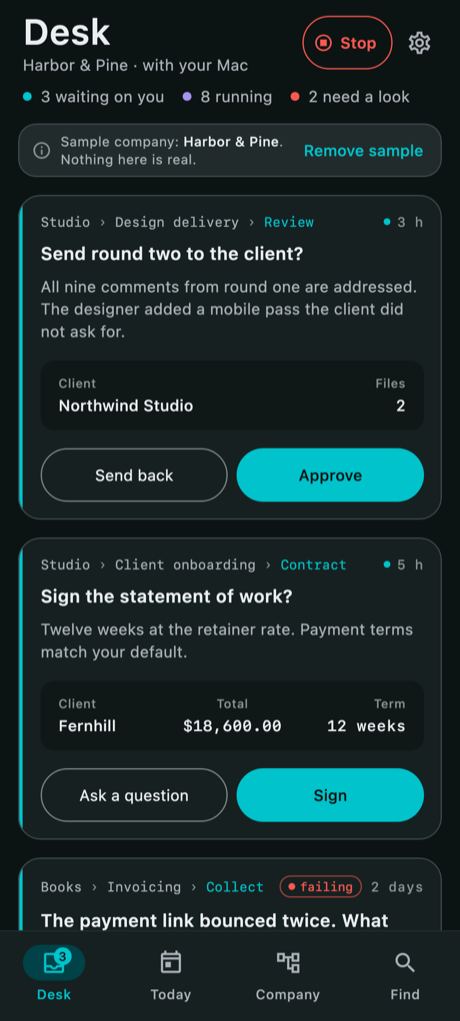
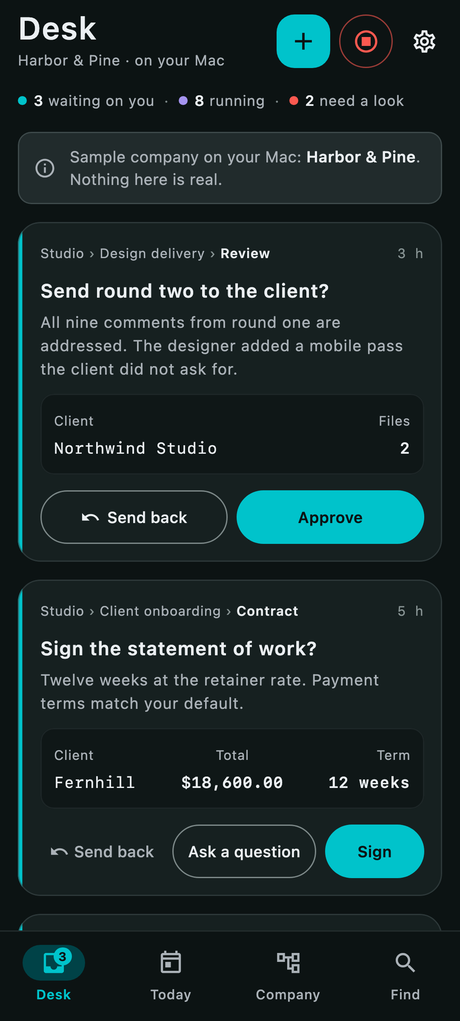
SoloINC for Android: companion-only pages (no on-phone runs, nothing sold)

diff --git a/index.html b/index.html
@@ -5,19 +5,19 @@
 <meta name="viewport" content="width=device-width, initial-scale=1">
 <meta name="color-scheme" content="dark light">
 <title>SoloINC for Android: answer your AI agents from the lock screen</title>
-<meta name="description" content="Your company's SoloINC Desk on your phone. Answer what your AI agents ask from the lock screen, with your Mac or with no Mac at all. No account, no analytics, no ads.">
+<meta name="description" content="Your company's SoloINC Desk on your phone, paired to SoloINC on your Mac. Answer or send back what your AI agents ask from the lock screen. No account, no analytics, no ads.">
 <meta name="robots" content="noindex">
 <link rel="canonical" href="https://soloinc-projects.github.io/soloinc-android/">
 <link rel="icon" href="img/favicon.svg" type="image/svg+xml">
 <link rel="apple-touch-icon" href="img/apple-touch-icon.png">
 <meta property="og:title" content="SoloINC for Android: answer your AI agents from the lock screen">
-<meta property="og:description" content="Your company's SoloINC Desk on your phone. Answer what your AI agents ask from the lock screen, with your Mac or with no Mac at all. No account, no analytics, no ads.">
+<meta property="og:description" content="Your company's SoloINC Desk on your phone, paired to SoloINC on your Mac. Answer or send back what your AI agents ask from the lock screen. No account, no analytics, no ads.">
 <meta property="og:image" content="https://soloinc-projects.github.io/soloinc-android/img/og-image.png">
 <link rel="stylesheet" href="site.css">
 <script type="application/ld+json">
 {"@context":"https://schema.org","@type":"SoftwareApplication","name":"SoloINC","applicationCategory":"BusinessApplication",
-"operatingSystem":"Android","description":"Your company's Desk on your phone: answer what your AI agents ask from the lock screen, with your Mac or with no Mac at all.",
-"offers":[{"@type":"Offer","price":"0","priceCurrency":"USD","description":"Free download: 30 runs a month, 60 in the first month"},{"@type":"Offer","price":"7.99","priceCurrency":"USD","description":"SoloINC Pro, monthly subscription through Google Play"},{"@type":"Offer","price":"59.99","priceCurrency":"USD","description":"SoloINC Pro, yearly subscription through Google Play"}],
+"operatingSystem":"Android","description":"Your company's SoloINC Desk on your phone, paired to SoloINC on your Mac: answer or send back what your AI agents ask from the lock screen.",
+"offers":{"@type":"Offer","price":"0","priceCurrency":"USD","description":"Free; sells nothing. Needs SoloINC on a Mac."},
 "publisher":{"@type":"Organization","name":"8086 LLC","email":"support@8086.llc"}}
 </script>
 </head>
@@ -31,43 +31,39 @@
 <main id="main">
 <section class="hero">
   <h1>Answer your agents from the lock screen.</h1>
-  <p class="lede">SoloINC for Android runs your company's Desk from your phone: with your Mac, or with no Mac at all. AI agents run the work. You decide at the Desk.</p>
+  <p class="lede">SoloINC for Android is the Desk in your pocket, paired to SoloINC on your Mac. AI agents run the work. You decide at the Desk.</p>
   <ul class="cta" aria-label="Where to get it">
     <li><b>Get it on Google Play</b> <span>· opens soon</span></li>
   </ul>
-  <p class="note">For Android phones. No SoloINC account, no analytics, no ads: the phone talks only to your Mac, or to your own model provider.</p>
+  <p class="note">For Android phones. Needs <a href="https://soloinc-projects.github.io/soloinc/">SoloINC on your Mac</a>, a free download: the phone is its remote, and nothing runs on the phone.</p>
 </section>
 
 <div class="proof">
-  <section><h2>Approve from the lock screen</h2><p>An ask arrives as a notification with Approve and Decline. Your fingerprint, face or PIN confirms it, and the answer writes the same record line as one given on your Mac.</p></section>
-  <section><h2>Grouped, never rubber-stamped</h2><p>Two or more low-risk asks within 15 minutes come as one notification. Each is still its own answer; there is no "approve all". Anything else arrives alone, at once.</p></section>
-  <section><h2>With no Mac at all</h2><p>Choose "Run it on this phone" and the same engine runs inside the app on your own model key, kept in the phone's keystore. A step only a computer can do says "Needs a computer".</p></section>
+  <section><h2>Answer from the lock screen</h2><p>An ask arrives as a notification with its own answers and Send back. Your fingerprint, face or PIN confirms it, and the answer is written to the record on your Mac, the same as one given there.</p></section>
+  <section><h2>Grouped, never rubber-stamped</h2><p>Low-risk asks that come within 15 minutes arrive as one notification. Each is still its own answer; there is no "approve all". Anything else arrives alone.</p></section>
+  <section><h2>Stop everything</h2><p>Stop the whole company, or one routine, from the top of the Desk. The phone shows your Mac's own answer when it has stopped, and you can start again.</p></section>
 </div>
 
 <h2>What it looks like</h2>
 <ul class="shots" aria-label="Screens, from the design">
-  <li><img src="img/welcome.png" width="460" height="1021" alt="SoloINC's first screen: Pair with my Mac, Run it on this phone, or look at the sample company first." loading="lazy"><p>The first screen</p></li>
-  <li><img src="img/desk.png" width="460" height="1021" alt="The Desk of the sample company Harbor &amp; Pine: three asks waiting, each with its numbers and two answers." loading="lazy"><p>The Desk: every ask from every routine</p></li>
-  <li><img src="img/memo.png" width="460" height="1021" alt="A memo, Send round two to the client?, with its client, two files, and Send back or Approve." loading="lazy"><p>A memo, with its numbers and files</p></li>
+  <li><img src="img/welcome.png" width="460" height="1021" alt="SoloINC's first screen: AI agents run the work, you decide at the Desk, and one button, Pair with my Mac." loading="lazy"><p>The first screen</p></li>
+  <li><img src="img/desk.png" width="460" height="1021" alt="The Desk of the sample company Harbor &amp; Pine on the Mac: asks waiting, each with its numbers, Send back and its own answer." loading="lazy"><p>The Desk: every ask from every routine</p></li>
+  <li><img src="img/memo.png" width="460" height="1021" alt="A memo, Send round two to the client?, with Context &amp; why, the client, two files, and Send back or Approve." loading="lazy"><p>A memo, with context and why</p></li>
+  <li><img src="img/talk.png" width="460" height="1021" alt="The Managing Agent screen: a question goes to the Managing Agent on your Mac and its answer comes back here." loading="lazy"><p>Ask the Managing Agent on your Mac</p></li>
 </ul>
-<p class="note">Pictures from the design, showing the sample company Harbor &amp; Pine. Nothing in it is real.</p>
-
-<h2>Free, and SoloINC Pro</h2>
-<div class="proof">
-  <section><h2>Free</h2><p>30 runs a month, 60 in your first month. A run is one agent doing one step of one job. The Desk, answering, the record, Stop and Today never need Pro.</p></section>
-  <section><h2>SoloINC Pro</h2><p>Unlimited runs: $7.99 a month or $59.99 a year in the U.S., paid through Google Play. It renews until you cancel; cancel any time in Google Play.</p></section>
-</div>
+<p class="note">Pictures from the design, showing the sample company Harbor &amp; Pine as a Mac sends it. Nothing in it is real.</p>
 
 <section class="not" aria-labelledby="not-h">
   <h2 id="not-h">Who it is for, and not for</h2>
   <ul>
-    <li>For people who already run their company on SoloINC.</li>
+    <li>For people who already run their company on SoloINC on a Mac.</li>
     <li>It does not watch a single coding session or route IT tickets.</li>
-    <li>It includes no model: running on the phone needs your own model key. Pairing needs SoloINC on your Mac.</li>
+    <li>It does nothing without your Mac: when the Mac is out of reach it shows the last copy, and every action is off until the Mac is back.</li>
     <li>While the app is closed it checks for new asks every 15 minutes, so an ask can arrive up to 15 minutes late.</li>
+    <li>Free, and it sells nothing: your SoloINC on the Mac holds the plan.</li>
   </ul>
 </section>
-<p class="note">Privacy in one line: no SoloINC account, nothing sent to our servers, no analytics, no ads. <a href="privacy/">Read the privacy policy</a>.</p>
+<p class="note">Privacy in one line: no SoloINC account, nothing sent to our servers, no analytics, no ads; the phone talks only to your Mac. <a href="privacy/">Read the privacy policy</a>.</p>
 </main>
 <footer>
   <p>SoloINC for Android · © 2026 8086 LLC · <a href="mailto:support@8086.llc">support@8086.llc</a> · <a href="/soloinc-android/privacy/">Privacy</a> · <a href="/soloinc-android/terms/">Terms</a> · <a href="https://soloinc-projects.github.io/soloinc/">SoloINC for Mac</a></p>

diff --git a/support/index.html b/support/index.html
@@ -5,13 +5,13 @@
 <meta name="viewport" content="width=device-width, initial-scale=1">
 <meta name="color-scheme" content="dark light">
 <title>Support · SoloINC for Android</title>
-<meta name="description" content="How to reach SoloINC support, and answers to the first questions about pairing, lock-screen answers and Pro.">
+<meta name="description" content="How to reach SoloINC support, and answers to the first questions about pairing, lock-screen answers and when your Mac is out of reach.">
 <meta name="robots" content="noindex">
 <link rel="canonical" href="https://soloinc-projects.github.io/soloinc-android/support/">
 <link rel="icon" href="../img/favicon.svg" type="image/svg+xml">
 <link rel="apple-touch-icon" href="../img/apple-touch-icon.png">
 <meta property="og:title" content="Support · SoloINC for Android">
-<meta property="og:description" content="How to reach SoloINC support, and answers to the first questions about pairing, lock-screen answers and Pro.">
+<meta property="og:description" content="How to reach SoloINC support, and answers to the first questions about pairing, lock-screen answers and when your Mac is out of reach.">
 <meta property="og:image" content="https://soloinc-projects.github.io/soloinc-android/img/og-image.png">
 <link rel="stylesheet" href="../site.css">
 </head>
@@ -25,25 +25,25 @@
 <main id="main">
 <div class="doc">
 <h1>Support</h1>
-<p>Write to <a href="mailto:support@8086.llc">support@8086.llc</a>. Say which phone and Android version you use, and whether the app runs with your Mac or on the phone.</p>
+<p>Write to <a href="mailto:support@8086.llc">support@8086.llc</a>. Say which phone and Android version you use, and which version of SoloINC your Mac runs.</p>
 <h2>First questions</h2>
 <dl>
+<dt>What do I need?</dt>
+<dd>SoloINC on a Mac (a free download from <a href="https://soloinc-projects.github.io/soloinc/">SoloINC for Mac</a>) and this app. The phone is the Mac's remote; nothing runs on the phone.</dd>
 <dt>How do I pair the phone with my Mac?</dt>
 <dd>On your Mac, open SoloINC and choose Pair a phone. It shows a code that works once, for ten minutes. In the app, tap "Pair with my Mac" and scan it, or paste it.</dd>
-<dt>The app says my Mac did not answer.</dt>
-<dd>Check that SoloINC is open on the Mac and that both are on your own network, then tap Try again. Answers you give meanwhile wait as "Waiting to send" and go when the Mac is in reach.</dd>
+<dt>The app says my Mac is out of reach.</dt>
+<dd>Check that SoloINC is open on the Mac and that both are on your own network, then tap Try again. Until then the app shows the last copy with its age, and every action is off; nothing is queued.</dd>
 <dt>Can I use it without a Mac?</dt>
-<dd>Yes. Tap "Run it on this phone" and paste your own model key. The company then runs inside the app. A step that only a computer can do is marked "Needs a computer".</dd>
+<dd>Not in this version. Without a paired Mac the app does nothing.</dd>
 <dt>Why did an ask reach me late?</dt>
 <dd>While the app is closed it checks for new asks every 15 minutes, so an ask can arrive up to 15 minutes late.</dd>
 <dt>Why did several asks come as one notification?</dt>
-<dd>Asks from agents your company marks low risk, arriving within 15 minutes, are grouped. Each is still its own answer. Turn grouping off in Settings › Notifications.</dd>
-<dt>How do I approve from the lock screen?</dt>
-<dd>Tap Approve or Decline on the notification and confirm with your fingerprint, face or PIN. Turn it off in Settings › Notifications.</dd>
-<dt>What is a run, and what does Pro add?</dt>
-<dd>A run is one agent doing one step of one job. Free gives 30 runs a month, 60 in your first month. Pro gives unlimited runs. Answering, the Desk, the record, Stop and Today never need Pro.</dd>
-<dt>How do I cancel Pro or get a refund?</dt>
-<dd>Cancel any time in Google Play › Payments and subscriptions › Subscriptions. Refunds follow Google Play's policy: <a href="https://support.google.com/googleplay/answer/2479637">Get refunds on Google Play</a>. To restore Pro on a new phone, open Settings › Plan › See Pro › Restore purchase.</dd>
+<dd>Asks from an agent your company marks low risk, coming within 15 minutes, are grouped. Each is still its own answer. Turn grouping off, or change its window, in Settings › Notifications.</dd>
+<dt>How do I answer from the lock screen?</dt>
+<dd>Tap one of the ask's answers, or Send back, on the notification and confirm with your fingerprint, face or PIN. Turn it off in Settings › Notifications.</dd>
+<dt>Does the app cost anything?</dt>
+<dd>No. It is free and sells nothing; your SoloINC on the Mac holds the plan.</dd>
 <dt>How do I unpair or remove my data?</dt>
 <dd>Settings › Unpair this phone. Uninstalling removes everything the app kept on the phone. See the <a href="../privacy/">privacy policy</a>.</dd>
 </dl>

diff --git a/privacy/index.html b/privacy/index.html
@@ -25,34 +25,32 @@
 <main id="main">
 <div class="doc">
 <h1>Privacy policy</h1>
-<p>SoloINC for Android, from 8086 LLC. Last updated 30 October 2026.</p>
-<p><b>In short:</b> there is no SoloINC account, and nothing the app holds is sent to us. We run no server the app talks to, and the app has no analytics and no ads.</p>
+<p>SoloINC for Android, from 8086 LLC. Last updated 31 October 2026.</p>
+<p><b>In short:</b> there is no SoloINC account, and nothing the app holds is sent to us. We run no server the app talks to, and the app has no analytics and no ads. The phone talks only to SoloINC on your own Mac.</p>
 <h2>What stays on your phone</h2>
 <ul>
 <li>A device key that signs each of your answers. It is made in the phone's hardware keystore and never leaves it.</li>
-<li>When paired with your Mac: the pairing token and your Mac's network addresses, kept encrypted on the phone.</li>
-<li>Your company's asks, cards and views, cached on the phone so the Desk opens without waiting.</li>
-<li>When the company runs on this phone: your model provider key, kept in the phone's keystore, and the company itself (its jobs and record).</li>
-<li>The app's own event notes (for example "pairing completed", "answer sent from a notification"). They stay on the phone; when paired, they are added to your own Mac's record.</li>
+<li>The pairing token and your Mac's network addresses, kept encrypted on the phone.</li>
+<li>A read-only copy of what your Mac last sent (asks, Today, Company, the record), so the app can show it when the Mac is out of reach.</li>
+<li>The app's own event notes (for example "pairing completed", "answer sent from a notification"). They are added to your own Mac's record.</li>
 </ul>
 <h2>Where data goes</h2>
 <ul>
-<li><b>With your Mac:</b> the phone talks only to SoloINC on your own Mac, over your own network. Your asks and answers travel between the two, encrypted in transit.</li>
-<li><b>On this phone:</b> agents send their work to your own model provider, with your own key. That provider's terms and privacy policy apply to what it receives.</li>
-<li><b>Google Play:</b> buying or restoring Pro goes through Google Play Billing. The app also reads Google Play's age signal at first launch where a law requires it, and may ask Google Play to show its rating prompt. Google handles those under its own policy.</li>
-<li>We, 8086 LLC, receive none of it.</li>
+<li><b>Your Mac:</b> your answers, Send back notes, decline reasons, the jobs you start and the questions you ask the Managing Agent go to SoloINC on your own Mac, over your own network, encrypted in transit. So does the phone's device public key, when you pair. The Mac does the work; nothing runs on the phone.</li>
+<li><b>Google Play:</b> the app reads Google Play's age signal at first launch where a law requires it, and may ask Google Play to show its rating prompt. Google handles those under its own policy.</li>
+<li>We, 8086 LLC, receive none of it. The app sells nothing.</li>
 </ul>
 <h2>What is never collected</h2>
 <p>No analytics or crash-reporting service, no advertising ID, no location, contacts, photos, health data or browsing history. Your fingerprint or face is checked by Android; the app learns only whether the check passed.</p>
 <h2>Permissions</h2>
 <ul>
 <li>Camera: only to scan the pairing code your Mac shows.</li>
-<li>Notifications: to show asks that wait on you, with Approve and Decline.</li>
+<li>Notifications: to show asks that wait on you, with their answers and Send back.</li>
 <li>Biometric: to confirm each answer with your fingerprint, face or PIN.</li>
-<li>Foreground service: only when you run the company on this phone, so it keeps working while the app is in the background.</li>
+<li>Network state: to know whether your Mac is in reach before an answer is sent.</li>
 </ul>
 <h2>Deleting your data</h2>
-<p>There is no account to delete, and we hold nothing about you. In Settings, "Unpair this phone" makes the phone forget its token at once; your company stays on your Mac. Uninstalling the app removes everything it kept on the phone, your model key included.</p>
+<p>There is no account to delete, and we hold nothing about you. In Settings, "Unpair this phone" makes the phone forget its token at once; your company stays on your Mac. Uninstalling the app removes everything it kept on the phone.</p>
 <h2>Children</h2>
 <p>SoloINC is a business tool, not made for children.</p>
 <h2>Contact</h2>

diff --git a/terms/index.html b/terms/index.html
@@ -5,13 +5,13 @@
 <meta name="viewport" content="width=device-width, initial-scale=1">
 <meta name="color-scheme" content="dark light">
 <title>Terms · SoloINC for Android</title>
-<meta name="description" content="The terms that apply to SoloINC for Android: Google Play's, and none of our own.">
+<meta name="description" content="The terms that apply to SoloINC for Android: Google Play's and SoloINC for Mac's; none of our own.">
 <meta name="robots" content="noindex">
 <link rel="canonical" href="https://soloinc-projects.github.io/soloinc-android/terms/">
 <link rel="icon" href="../img/favicon.svg" type="image/svg+xml">
 <link rel="apple-touch-icon" href="../img/apple-touch-icon.png">
 <meta property="og:title" content="Terms · SoloINC for Android">
-<meta property="og:description" content="The terms that apply to SoloINC for Android: Google Play's, and none of our own.">
+<meta property="og:description" content="The terms that apply to SoloINC for Android: Google Play's and SoloINC for Mac's; none of our own.">
 <meta property="og:image" content="https://soloinc-projects.github.io/soloinc-android/img/og-image.png">
 <link rel="stylesheet" href="../site.css">
 </head>
@@ -26,7 +26,7 @@
 <div class="doc">
 <h1>Terms</h1>
 <p>SoloINC for Android is provided by 8086 LLC through Google Play. It is governed by the <a href="https://play.google.com/about/play-terms/">Google Play Terms of Service</a>. We add no terms of our own.</p>
-<p>Your use of a model provider is governed by that provider's own terms. Subscriptions are bought, renewed and cancelled through Google Play.</p>
+<p>The app is free and sells nothing. It works with SoloINC on your Mac, whose own terms apply to it: <a href="https://soloinc-projects.github.io/soloinc/terms/">SoloINC for Mac terms</a>.</p>
 <p>Questions: <a href="mailto:support@8086.llc">support@8086.llc</a>.</p>
 </div>
 </main>
